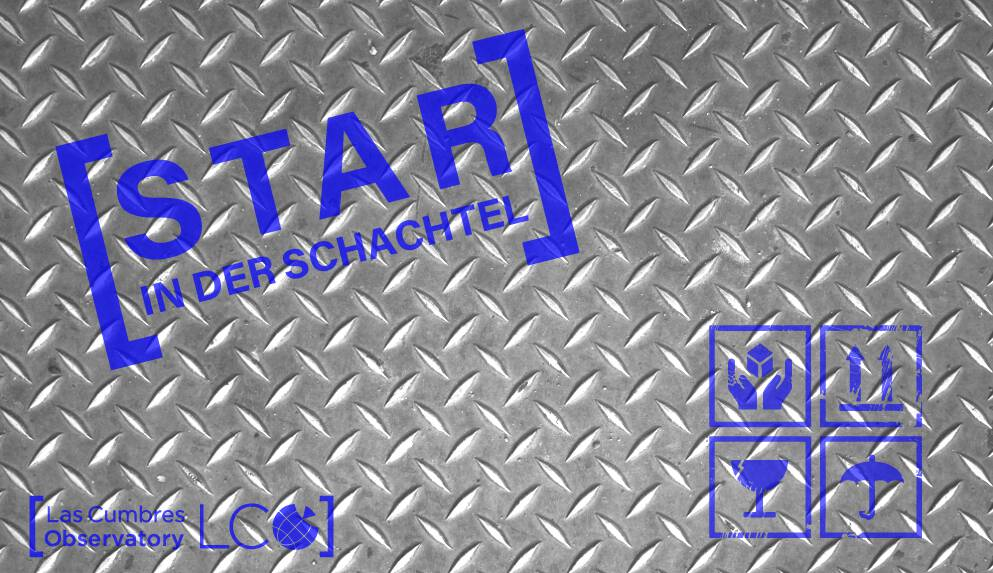
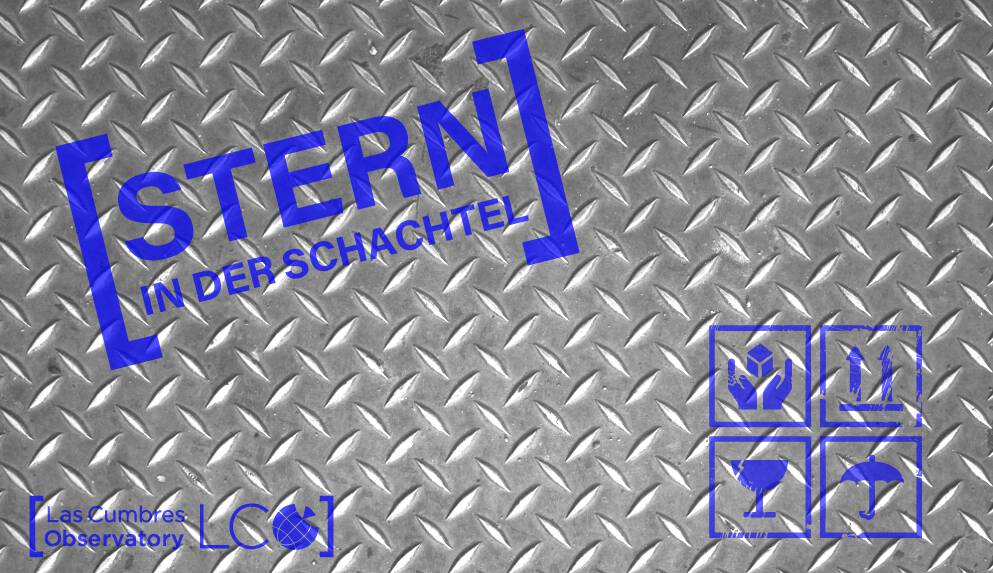
Typos in DE version; bug fix translation at start

Changed region(s): [[0.0937, 0.1483, 0.5307, 0.4747]]

diff --git a/js/siab.js b/js/siab.js
@@ -631,7 +631,7 @@ $(document).ready(function () {
 		if(this.phrasebook.mass) $('#starMass .value strong').html(this.phrasebook.mass);
 		$(this.scaletext).find('.units').html(this.phrasebook.massunit);
 		this.sizeComparison.sunLabel.attr('text',htmlDecode(this.phrasebook.sun));
-		this.el.stagelabel.find('strong').html(this.phrasebook.stage+":");
+		this.el.stagelabel.html("<strong>"+this.phrasebook.stage+":</strong> "+this.stages[0]);
 		this.el.time.find('.units').html(this.phrasebook.timescale);
 		if(this.phrasebook.caution) $('.caution').html(this.phrasebook.caution);
 

diff --git a/index.html b/index.html
@@ -173,7 +173,7 @@
 						</div>
 					</div>
 				</div>
-				<div id="tevTime">0 Myrs</div>
+				<div id="tevTime">0 <span class="units">Myrs</div></div>
 				<div id="starMass"><span class="value">1</span></div>
 			</div>
         </div>
